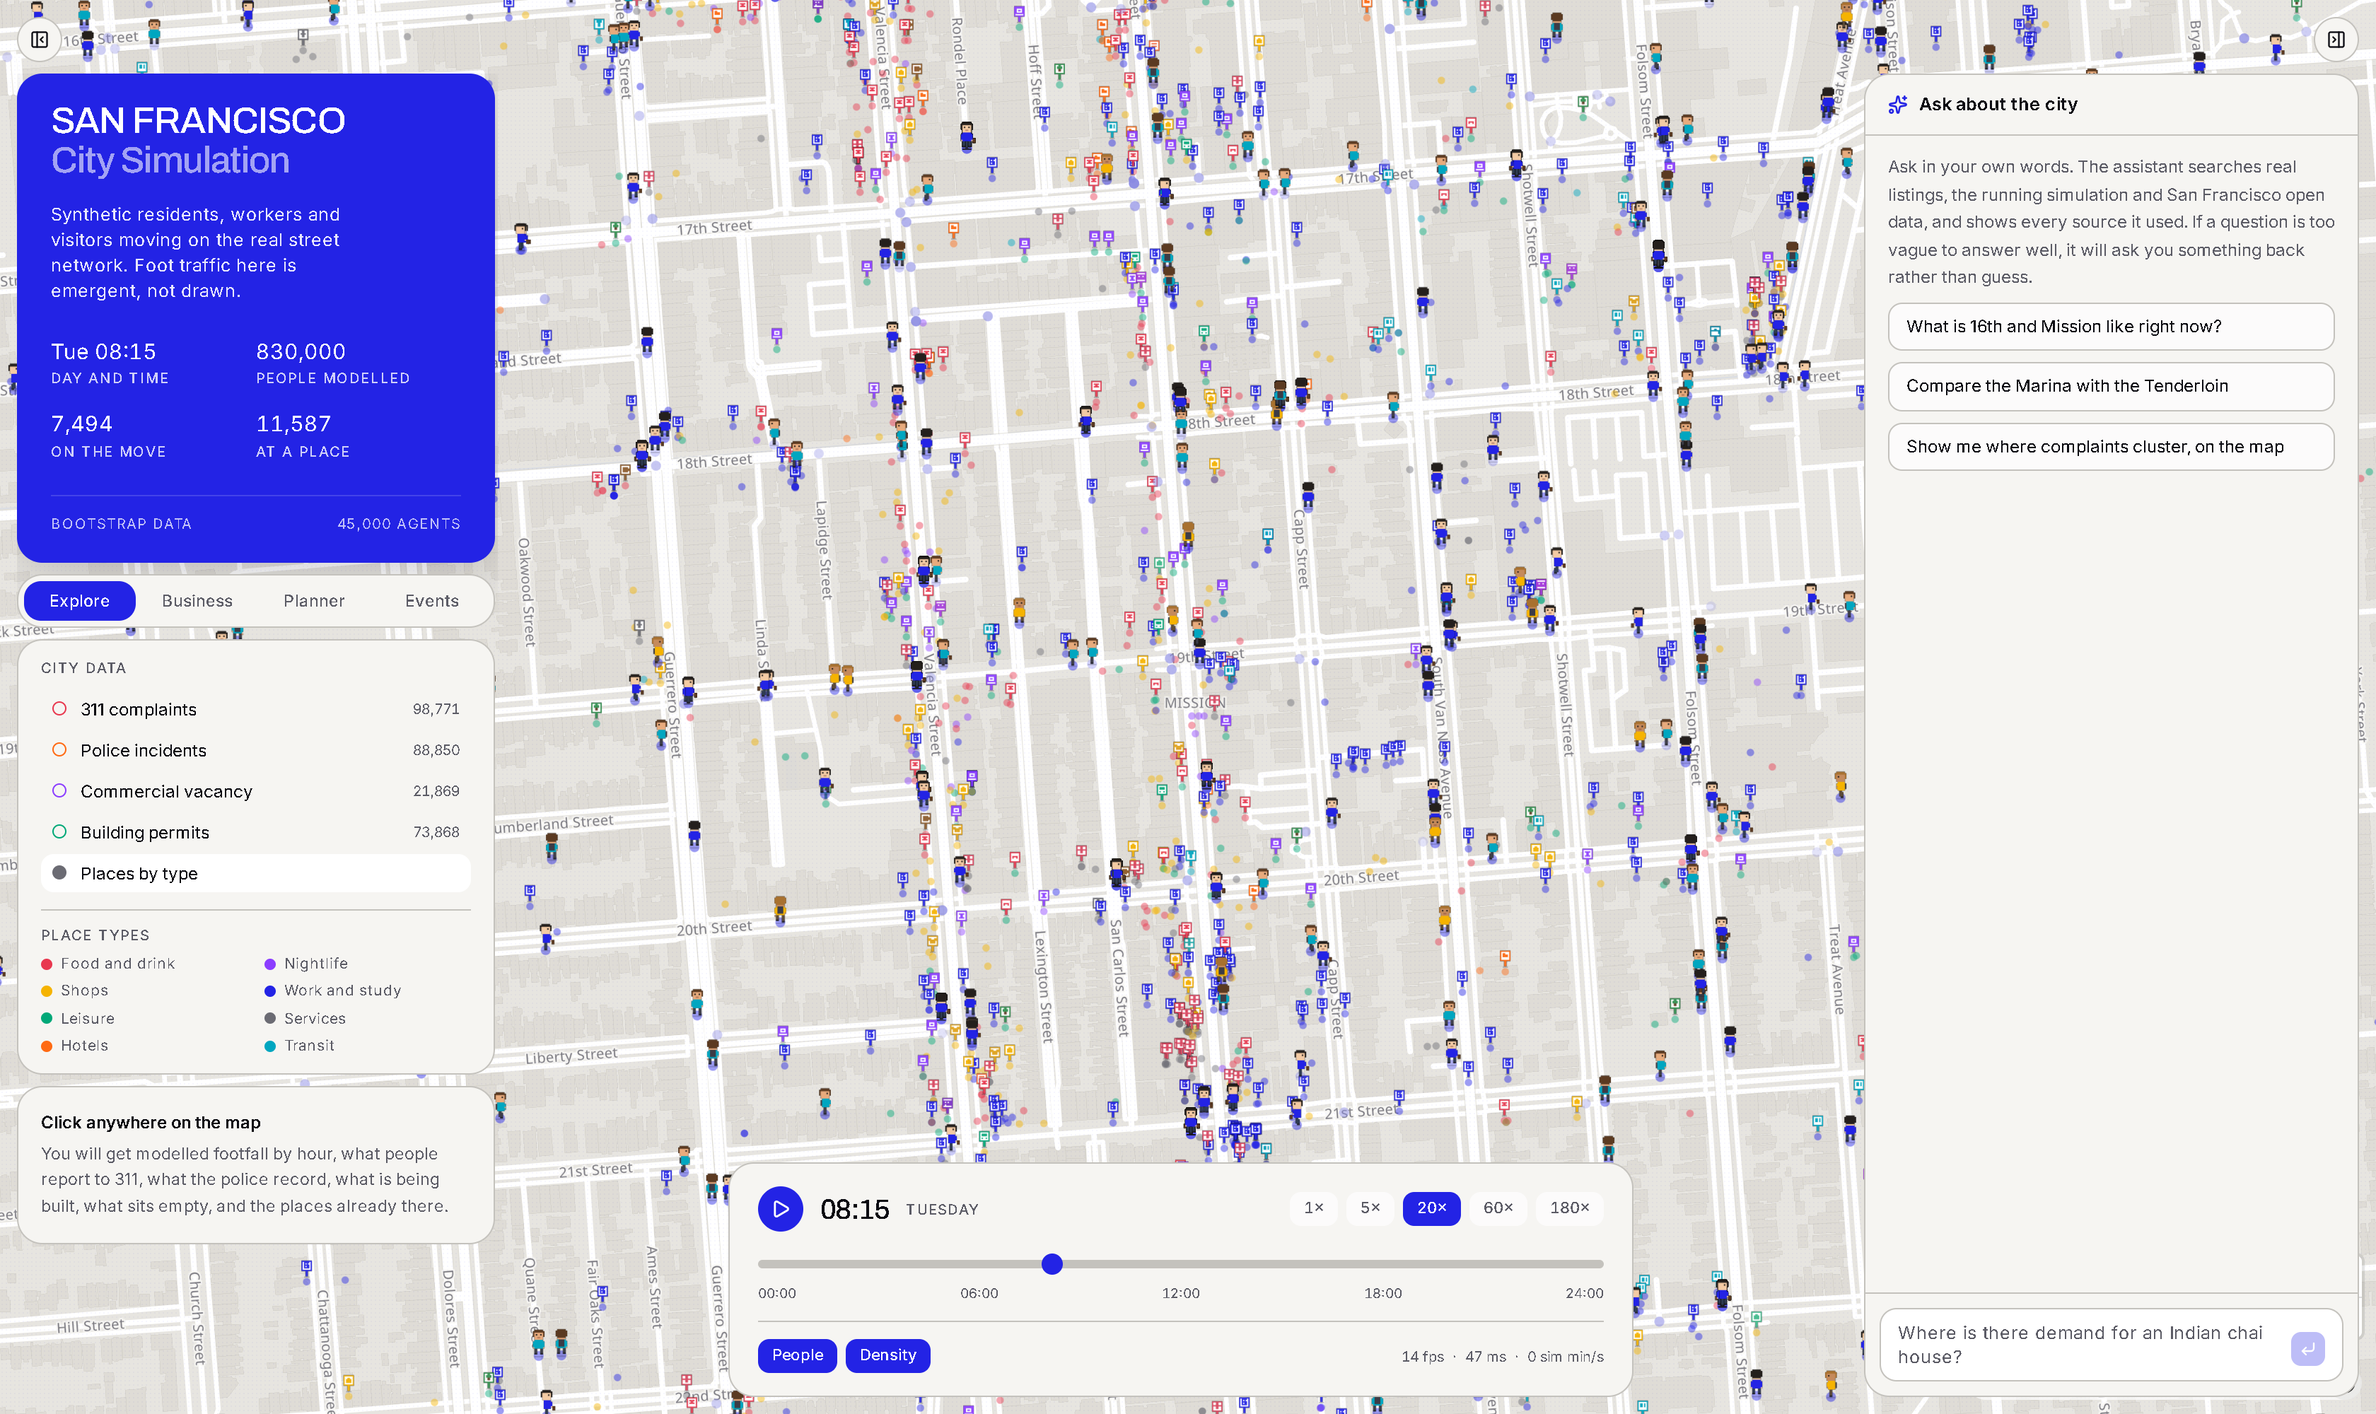
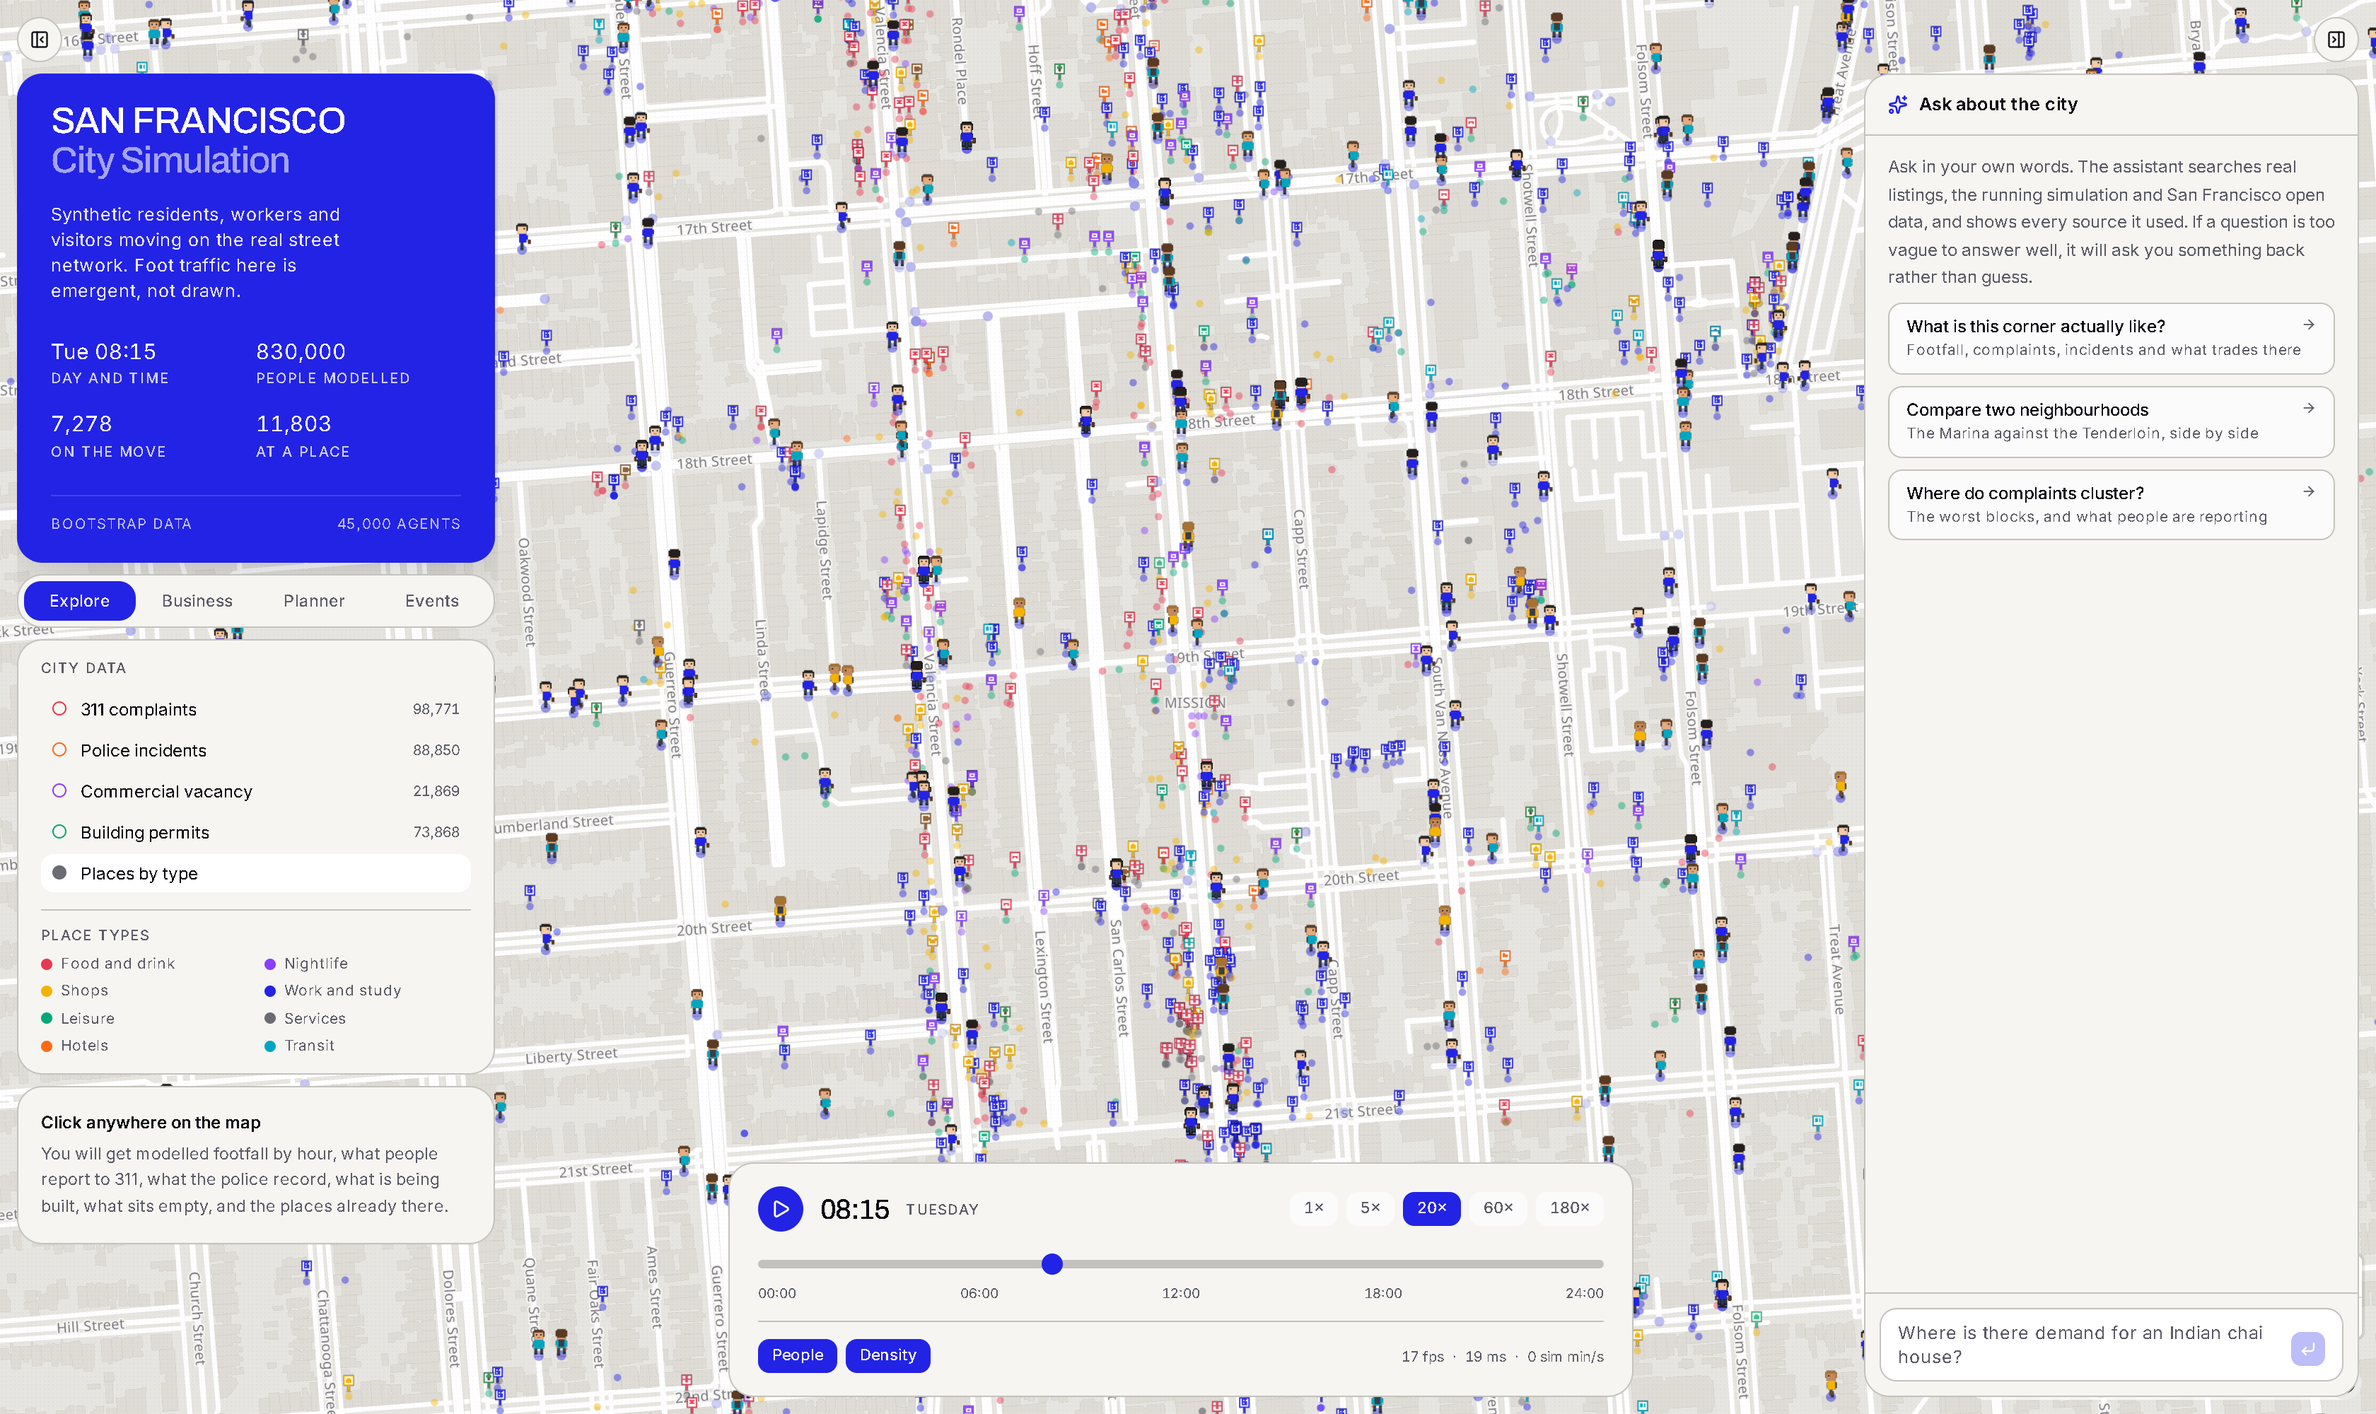
Showcase questions as cards, and answers that leave the map showing the evidence
The suggestions were phrased the way a search box invites: short and vague.
Those are exactly the questions the assistant now declines to answer
generically, so clicking one produced a clarifying question rather than a
demonstration. Each of the twelve now carries the detail that produced a strong
answer in testing - a budget and a customer, a day and a time, a named place -
and renders as a card with a headline and what it will do.

Answers were landing with only a camera move. The tools that produce a finding
now switch on the layers whose numbers they just quoted, drop a marker on the
place named, and for events turn people on and set the clock to the arrivals.
Done in the tools rather than left to the model, because whether the map ends
up correct should not depend on the model remembering to ask.

setLayers replaces the visible set rather than adding to it, so an answer about
one place does not leave the previous answer's layers switched on.

A showcase query now fires six map actions: layers on, camera moved, marker
dropped, plus whatever the model adds on top.

diff --git a/apps/web/src/state/appStore.ts b/apps/web/src/state/appStore.ts
@@ -189,26 +189,124 @@ export const useApp = create<AppState>((set) => ({
   setAssistantBusy: (assistantBusy) => set({ assistantBusy }),
 }));
 
-/** Questions offered per mode, so the box is never a blank prompt. */
-export const SUGGESTIONS: Record<Mode, string[]> = {
+/** A question worth clicking: a headline, and the text actually sent. */
+export interface Suggestion {
+  label: string;
+  detail: string;
+  prompt: string;
+}
+
+/**
+ * Questions phrased the way the good answers need.
+ *
+ * Short prompts get a clarifying question back, which is correct behaviour but
+ * a poor demonstration. Each of these carries the detail that produced a strong
+ * answer in testing: a budget and a customer, a day and a time, a named place.
+ */
+export const SUGGESTIONS: Record<Mode, Suggestion[]> = {
   explore: [
-    'What is 16th and Mission like right now?',
-    'Compare the Marina with the Tenderloin',
-    'Show me where complaints cluster, on the map',
+    {
+      label: 'What is this corner actually like?',
+      detail: 'Footfall, complaints, incidents and what trades there',
+      prompt:
+        'What is 16th and Mission like right now? Cover modelled footfall through ' +
+        'the day, what residents report to 311, what the police record, and which ' +
+        'businesses are there. Show it on the map with the complaint layer on.',
+    },
+    {
+      label: 'Compare two neighbourhoods',
+      detail: 'The Marina against the Tenderloin, side by side',
+      prompt:
+        'Compare the Marina with the Tenderloin on modelled footfall, 311 ' +
+        'complaints, police incidents and the mix of businesses. Say plainly which ' +
+        'is busier and which has more reported problems, and mark both on the map.',
+    },
+    {
+      label: 'Where do complaints cluster?',
+      detail: 'The worst blocks, and what people are reporting',
+      prompt:
+        'Which parts of San Francisco get the most 311 complaints, and what are ' +
+        'people actually complaining about there? Turn the complaint layer on and ' +
+        'take me to the worst area.',
+    },
   ],
   business: [
-    'Where is there unmet demand for an Indian chai house?',
-    'I want to open a natural wine bar. Where, and why?',
-    'Which areas have the most cafes but the least competition?',
+    {
+      label: 'Where should I sign a lease?',
+      detail: 'A chai house, with budget and customer, down to the address',
+      prompt:
+        'I have a 200 thousand dollar budget, my customers are young professionals ' +
+        'and students, and I am open to any neighbourhood. Where exactly should I ' +
+        'sign a lease for an Indian chai house? Give me real vacant addresses, not ' +
+        'just a neighbourhood, and tell me what would change your mind.',
+    },
+    {
+      label: 'Is this concept already saturated?',
+      detail: 'What trades now, what customers say, where the gap is',
+      prompt:
+        'I am thinking about a natural wine bar in San Francisco. Research what ' +
+        'already trades, what customers say about those places in their reviews, ' +
+        'and what people say online. Then tell me whether the market is saturated ' +
+        'and which two neighbourhoods still have room.',
+    },
+    {
+      label: 'Rank vacant sites for a cafe',
+      detail: 'Real vacancy filings in the Mission, scored',
+      prompt:
+        'Rank the real vacant commercial parcels in the Mission for a cafe. Show ' +
+        'them on the map, and explain what separates the top one from the second.',
+    },
   ],
   planner: [
-    'What is the land use around Dogpatch?',
-    'Which blocks have the most building permits?',
-    'How far can someone walk from Civic Center in 10 minutes?',
+    {
+      label: 'Read a neighbourhood as a planner',
+      detail: 'Complaints, walkability and what is being built',
+      prompt:
+        'I am a planner looking at the Tenderloin. What do residents complain ' +
+        'about most, how walkable is it, and what is being built? Turn on the ' +
+        'complaint and permit layers and show me.',
+    },
+    {
+      label: 'Who can actually reach this?',
+      detail: 'A ten-minute walk measured along real streets',
+      prompt:
+        'How far can someone actually walk from Civic Center in ten minutes, ' +
+        'measured along the street network rather than as a circle? Draw it on ' +
+        'the map and tell me how many people live inside it.',
+    },
+    {
+      label: 'Where is housing being added?',
+      detail: 'Permits filed, and the units they propose',
+      prompt:
+        'Which parts of San Francisco have the most building permits filed in the ' +
+        'last three years, and how many homes do they propose? Turn the permit ' +
+        'layer on and take me to the busiest area.',
+    },
   ],
   events: [
-    'Model a sold-out Warriors game at Chase Center',
-    'What happens to nearby bars during an Oracle Park game?',
-    'Which blocks get crowded before a 7pm concert?',
+    {
+      label: 'Prepare for a sold-out game',
+      detail: 'Transit surge, crowding and the worst blocks',
+      prompt:
+        'There is a sold-out Warriors game at Chase Center on Friday at 7pm. I run ' +
+        'city operations. What should I prepare for, which blocks get worst, and ' +
+        'how do people arrive and leave? Show the crowd on the map.',
+    },
+    {
+      label: 'What does an event do to local trade?',
+      detail: 'Which businesses absorb the crowd, and how many',
+      prompt:
+        'During a Giants game at Oracle Park, which nearby bars, restaurants and ' +
+        'cafes see the most extra people, and roughly how many each? Put the venue ' +
+        'and the crowd on the map.',
+    },
+    {
+      label: 'Compare two venues on the same night',
+      detail: 'Chase Center against Oracle Park',
+      prompt:
+        'Compare a 18,000 person event at Chase Center with a 41,000 person event ' +
+        'at Oracle Park, both at 7pm. Which one puts more pressure on transit and ' +
+        'on the surrounding blocks, and why?',
+    },
   ],
 };

diff --git a/apps/web/src/components/Assistant.tsx b/apps/web/src/components/Assistant.tsx
@@ -6,7 +6,7 @@
  * after it. Every number in an answer comes from a tool, not from the model.
  */
 import { useEffect, useRef, useState } from 'react';
-import { CornerDownLeft, Loader2, Sparkles } from 'lucide-react';
+import { ArrowRight, CornerDownLeft, Loader2, Sparkles } from 'lucide-react';
 
 import { connection } from '../sim/connection';
 import { SUGGESTIONS, useApp } from '../state/appStore';
@@ -56,12 +56,24 @@ export function Assistant() {
             </p>
             {SUGGESTIONS[mode].map((s) => (
               <button
-                key={s}
+                key={s.label}
                 type="button"
-                onClick={() => ask(s)}
-                className="block w-full rounded-[10px] border border-[var(--color-hairline)] bg-white/70 px-3 py-2 text-left text-[12px] leading-snug transition-colors hover:border-[var(--color-ink-blue)] hover:text-[var(--color-ink-blue)]"
+                onClick={() => ask(s.prompt)}
+                title={s.prompt}
+                className="group block w-full rounded-[10px] border border-[var(--color-hairline)] bg-white/70 px-3 py-2 text-left transition-colors hover:border-[var(--color-ink-blue)]"
               >
-                {s}
+                <div className="flex items-baseline gap-1.5">
+                  <span className="text-[12px] font-medium leading-snug group-hover:text-[var(--color-ink-blue)]">
+                    {s.label}
+                  </span>
+                  <ArrowRight
+                    size={11}
+                    className="ml-auto shrink-0 translate-x-0 text-[var(--color-ink-soft)] transition-transform group-hover:translate-x-0.5 group-hover:text-[var(--color-ink-blue)]"
+                  />
+                </div>
+                <div className="mt-0.5 text-[10.5px] leading-snug text-[var(--color-ink-soft)]">
+                  {s.detail}
+                </div>
               </button>
             ))}
           </div>

diff --git a/apps/web/src/sim/connection.ts b/apps/web/src/sim/connection.ts
@@ -122,6 +122,15 @@ function applyMapAction(event: MapActionEvent): void {
     case 'setLayer':
       app.setLayerOn(String(p.layer), p.on !== false);
       break;
+    case 'setLayers': {
+      // replaces the visible set rather than adding to it, so an answer about
+      // one place does not leave the previous answer's layers switched on
+      const wanted = new Set((p.on as string[]) ?? []);
+      for (const layer of useApp.getState().layers) {
+        app.setLayerOn(layer.id, wanted.has(layer.id));
+      }
+      break;
+    }
     case 'setMode':
       app.setMode(String(p.mode) as never);
       break;

diff --git a/apps/sim/sim/llm/tools.py b/apps/sim/sim/llm/tools.py
@@ -180,10 +180,23 @@ def build_tools(root: Path, world, sim, hub) -> dict:
             )
         )
         sources.append(places_source(world.n_pois, enriched))
+        # Switch on the layers this report actually has numbers for. An answer
+        # quoting complaint counts beside a blank map is a paragraph, not a map
+        # product, and whether that happens should not depend on the model
+        # remembering to ask for it.
+        present = set((report.get("sections") or {}).keys())
+        layers_on = [name for name in ("complaints", "incidents", "permits", "vacancy")
+                     if name in present]
         return ToolResult(
             report,
-            [{"action": "flyTo",
-              "payload": {"lon": lon, "lat": lat, "zoom": 15.2, "label": resolved}}],
+            [
+                {"action": "setLayers", "payload": {"on": layers_on}},
+                {"action": "flyTo",
+                 "payload": {"lon": lon, "lat": lat, "zoom": 15.2, "label": resolved}},
+                {"action": "highlight",
+                 "payload": {"markers": [{"label": resolved.split(",")[0][:22],
+                                          "lon": lon, "lat": lat}], "kind": "pin"}},
+            ],
             sources,
             f"Read everything within {int(radius_metres)} m of {resolved}.",
         )
@@ -570,6 +583,10 @@ def build_tools(root: Path, world, sim, hub) -> dict:
             {"action": "event",
              "payload": {"lon": lon, "lat": lat, "label": resolved,
                          "attendance": int(attendance), "origins": origins}},
+            # the crowd is the whole point, so make sure people are drawn, and
+            # put the clock where the arrivals actually happen
+            {"action": "setToggles", "payload": {"showAgents": True, "showDensity": True}},
+            {"action": "setTime", "payload": {"minute": 4 * 1440 + max(start - 45, 0)}},
         ]
         result.pop("attendeeHomeSample", None)  # drawn, not narrated
         sources = [
@@ -606,9 +623,18 @@ def build_tools(root: Path, world, sim, hub) -> dict:
             markers.append({"label": resolved, "lon": lon, "lat": lat})
             sources.extend(_section_sources(report))
         sources.append(simulation_source(world.n_agents, "Footfall within 150 m of each place"))
+        compare_actions: list[dict] = [
+            {"action": "highlight", "payload": {"markers": markers, "kind": "compare"}},
+            {"action": "setLayers", "payload": {"on": ["complaints", "incidents"]}},
+        ]
+        if markers:
+            compare_actions.append(
+                {"action": "flyTo",
+                 "payload": {"lon": markers[0]["lon"], "lat": markers[0]["lat"], "zoom": 13.4}}
+            )
         return ToolResult(
             {"comparison": rows},
-            [{"action": "highlight", "payload": {"markers": markers, "kind": "compare"}}],
+            compare_actions,
             _dedupe(sources),
             f"Compared {len(rows)} places on footfall, complaints, incidents and vacancy.",
         )

diff --git a/apps/sim/sim/llm/assistant.py b/apps/sim/sim/llm/assistant.py
@@ -81,7 +81,13 @@ TOOLS
 
 You drive the interface, not just the map. Open the right panel, switch on the
 layers that support your point, and move the camera. Do it while answering
-rather than asking permission. Leave the screen showing your evidence."""
+rather than asking permission. Leave the screen showing your evidence.
+
+Most tools already move the map themselves. Call control_interface on top of
+that whenever your answer leans on something not yet visible: to switch on a
+layer you quoted, to set the clock to the hour you are describing, to zoom to
+the block you named, or to tilt the view when the point is about density. End
+every substantive answer with the screen showing what you just argued."""
 
 
 def load_key() -> str | None:
